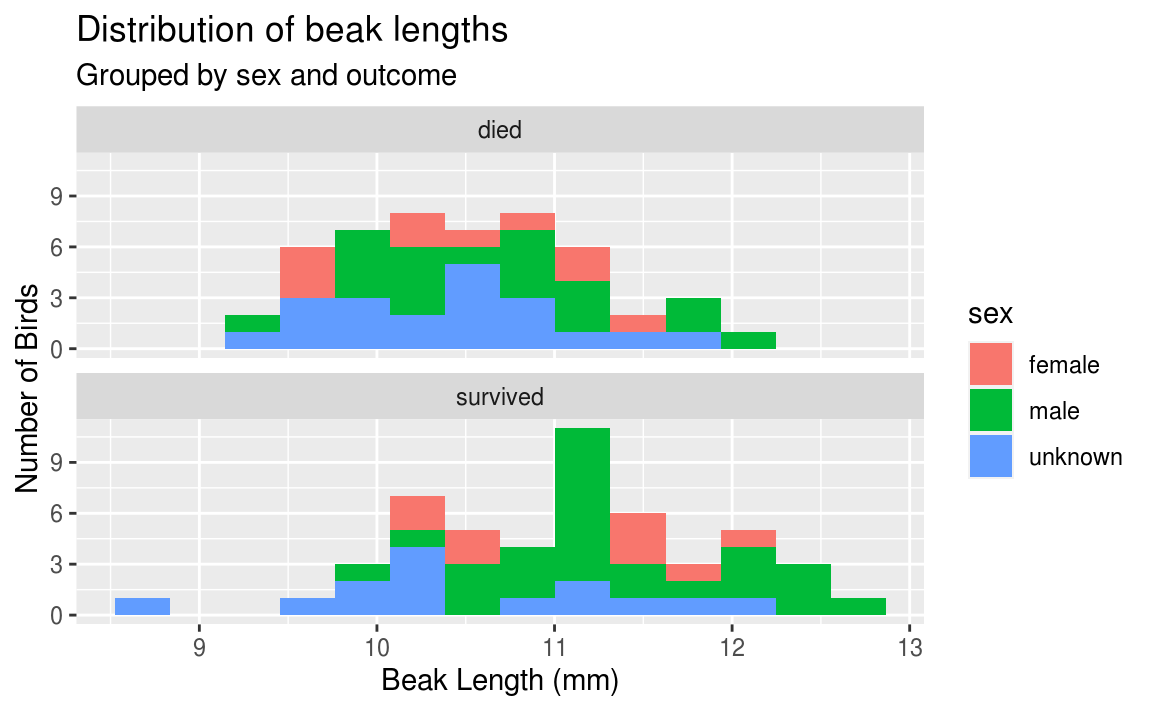
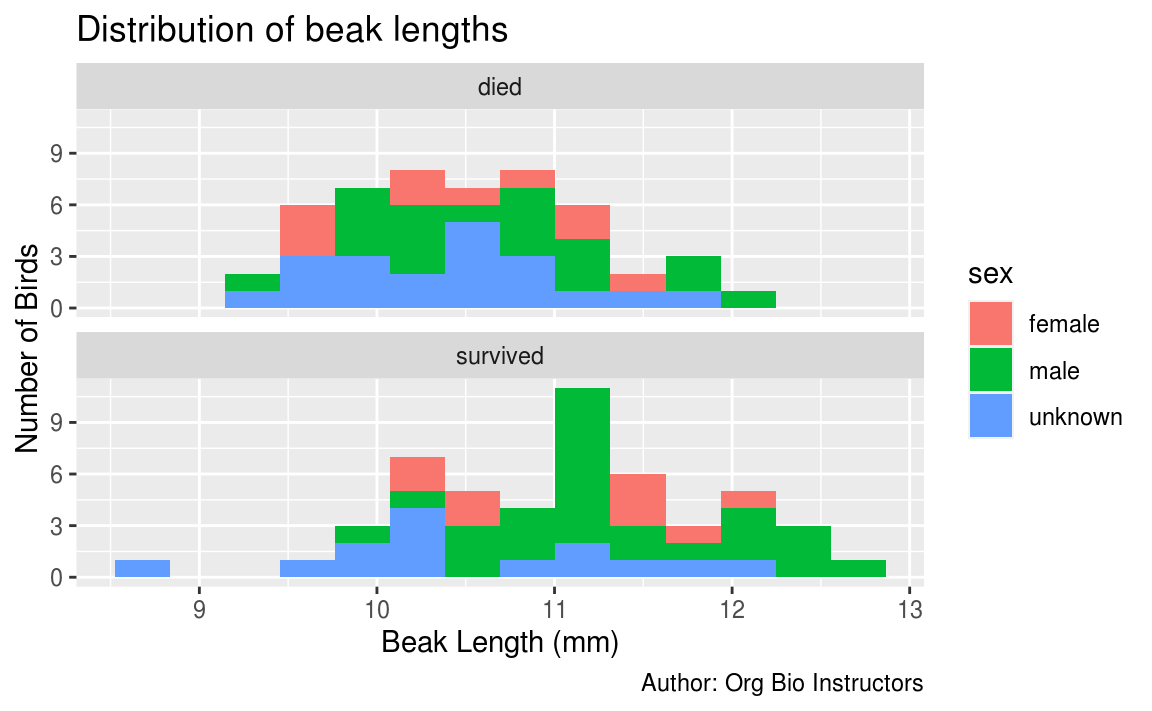
Update the book

diff --git a/finch-analysis.html b/finch-analysis.html
@@ -258,11 +258,11 @@ To look at an object you have just created, print it to the console window by <s
   <span class="fu">facet_wrap</span><span class="op">(</span><span class="op">~</span> <span class="va">outcome</span>, ncol <span class="op">=</span> <span class="fl">1</span><span class="op">)</span> <span class="op">+</span>   <span class="co"># outcome is the grouping variable</span>
   <span class="fu">guides</span><span class="op">(</span>fill <span class="op">=</span> <span class="st">"none"</span><span class="op">)</span> <span class="op">+</span>             <span class="co"># don't show a legend for fill color</span>
   <span class="fu">labs</span><span class="op">(</span>
-    title <span class="op">=</span> <span class="st">"Figure 1."</span>,              <span class="co"># title</span>
-    x <span class="op">=</span> <span class="st">"Beak Length (mm)"</span>,           <span class="co"># x-axis label</span>
-    y <span class="op">=</span> <span class="st">"Number of Birds"</span>             <span class="co"># y-axis label</span>
-  <span class="op">)</span> <span class="op">+</span>
-  <span class="fu">theme</span><span class="op">(</span>plot.title <span class="op">=</span> <span class="fu">element_text</span><span class="op">(</span>size <span class="op">=</span> <span class="fu">rel</span><span class="op">(</span><span class="fl">.8</span><span class="op">)</span><span class="op">)</span><span class="op">)</span>  <span class="co"># make title smaller</span></code></pre></div>
+    title <span class="op">=</span> <span class="st">"Figure 1."</span>,                      <span class="co"># this is the first figure</span>
+    x <span class="op">=</span> <span class="st">"Beak Length (mm)"</span>,                   <span class="co"># human-readable x-axis label</span>
+    y <span class="op">=</span> <span class="st">"Number of Birds"</span>,                    <span class="co"># human-readable y-axis label</span>
+    caption <span class="op">=</span> <span class="st">"Author: Org Bio Instructors"</span>   <span class="co"># so we know who made it</span>
+  <span class="op">)</span></code></pre></div>
 <div class="inline-figure"><img src="finch-analysis_files/figure-html/grouped-histogram-labels-1.png" width="70%" style="display: block; margin: auto;"></div>
 </div>
 <div id="write-a-figure-legend" class="section level3" number="6.6.4">
@@ -334,24 +334,24 @@ Figure 1. <strong>Distribution of beak lengths among medium ground finches (<i>G
 
 <span class="co"># bar chart of mean beak lengths</span>
 <span class="fu">ggplot</span><span class="op">(</span>
-  data <span class="op">=</span> <span class="va">beak_length_grouped_summary</span>,   <span class="co"># dont use the original finches dataset</span>
+  data <span class="op">=</span> <span class="va">beak_length_grouped_summary</span>,   <span class="co"># use summary data, not "finches"</span>
   mapping <span class="op">=</span> <span class="fu">aes</span><span class="op">(</span>x <span class="op">=</span> <span class="va">outcome</span>,            <span class="co"># survival on the x axis</span>
                 y <span class="op">=</span> <span class="va">mean</span>,               <span class="co"># mean beak length on the y axis</span>
                 fill <span class="op">=</span> <span class="va">outcome</span><span class="op">)</span>         <span class="co"># make died/survived different colors</span>
 <span class="op">)</span> <span class="op">+</span>
-  <span class="fu">geom_col</span><span class="op">(</span><span class="op">)</span> <span class="op">+</span>                                 <span class="co"># add columns</span>
-  <span class="fu">geom_errorbar</span><span class="op">(</span>                               <span class="co"># add error bars</span>
-    mapping <span class="op">=</span> <span class="fu">aes</span><span class="op">(</span>ymin <span class="op">=</span> <span class="va">lower_conf_limit</span>,     <span class="co">#   lower 95% confidence limit</span>
-                  ymax <span class="op">=</span> <span class="va">upper_conf_limit</span><span class="op">)</span>,    <span class="co">#   upper 95% confidence limit</span>
-    width <span class="op">=</span> <span class="fl">.3</span>                                 <span class="co">#   width of horizontal bars</span>
+  <span class="fu">geom_col</span><span class="op">(</span><span class="op">)</span> <span class="op">+</span>                                <span class="co"># add columns</span>
+  <span class="fu">geom_errorbar</span><span class="op">(</span>                              <span class="co"># add error bars</span>
+    mapping <span class="op">=</span> <span class="fu">aes</span><span class="op">(</span>ymin <span class="op">=</span> <span class="va">lower_conf_limit</span>,    <span class="co">#   lower 95% confidence limit</span>
+                  ymax <span class="op">=</span> <span class="va">upper_conf_limit</span><span class="op">)</span>,   <span class="co">#   upper 95% confidence limit</span>
+    width <span class="op">=</span> <span class="fl">.3</span>                                <span class="co">#   width of horizontal bars</span>
   <span class="op">)</span> <span class="op">+</span>
-  <span class="fu">guides</span><span class="op">(</span>fill <span class="op">=</span> <span class="st">"none"</span><span class="op">)</span> <span class="op">+</span>                      <span class="co"># don't show fill color legend</span>
+  <span class="fu">guides</span><span class="op">(</span>fill <span class="op">=</span> <span class="st">"none"</span><span class="op">)</span> <span class="op">+</span>                     <span class="co"># don't show fill color legend</span>
   <span class="fu">labs</span><span class="op">(</span>
-    title <span class="op">=</span> <span class="st">"Figure 2."</span>,                       <span class="co"># title</span>
-    x <span class="op">=</span> <span class="st">"Outcome"</span>,                             <span class="co"># x-axis label</span>
-    y <span class="op">=</span> <span class="st">"Beak Length (mm)"</span>                     <span class="co"># y-axis label</span>
-  <span class="op">)</span> <span class="op">+</span>
-  <span class="fu">theme</span><span class="op">(</span>plot.title <span class="op">=</span> <span class="fu">element_text</span><span class="op">(</span>size <span class="op">=</span> <span class="fu">rel</span><span class="op">(</span><span class="fl">.8</span><span class="op">)</span><span class="op">)</span><span class="op">)</span>  <span class="co"># make title smaller</span></code></pre></div>
+    title <span class="op">=</span> <span class="st">"Figure 2."</span>,                      <span class="co"># this is the second figure</span>
+    x <span class="op">=</span> <span class="st">"Outcome"</span>,                            <span class="co"># human-readable x-axis label</span>
+    y <span class="op">=</span> <span class="st">"Beak Length (mm)"</span>,                   <span class="co"># human-readable y-axis label</span>
+    caption <span class="op">=</span> <span class="st">"Author: Org Bio Instructors"</span>   <span class="co"># so we know who made it</span>
+  <span class="op">)</span></code></pre></div>
 <div class="inline-figure"><img src="finch-analysis_files/figure-html/bar-chart-1.png" width="70%" style="display: block; margin: auto;"></div>
 <p>A good figure legend for this figure would be:</p>
 <blockquote class="text-info">

diff --git a/beak-length-script.html b/beak-length-script.html
@@ -101,11 +101,11 @@
   <span class="fu">facet_wrap</span><span class="op">(</span><span class="op">~</span> <span class="va">outcome</span>, ncol <span class="op">=</span> <span class="fl">1</span><span class="op">)</span> <span class="op">+</span>   <span class="co"># outcome is the grouping variable</span>
   <span class="fu">guides</span><span class="op">(</span>fill <span class="op">=</span> <span class="st">"none"</span><span class="op">)</span> <span class="op">+</span>             <span class="co"># don't show a legend for fill color</span>
   <span class="fu">labs</span><span class="op">(</span>
-    title <span class="op">=</span> <span class="st">"Figure 1."</span>,              <span class="co"># title</span>
-    x <span class="op">=</span> <span class="st">"Beak Length (mm)"</span>,           <span class="co"># x-axis label</span>
-    y <span class="op">=</span> <span class="st">"Number of Birds"</span>             <span class="co"># y-axis label</span>
-  <span class="op">)</span> <span class="op">+</span>
-  <span class="fu">theme</span><span class="op">(</span>plot.title <span class="op">=</span> <span class="fu">element_text</span><span class="op">(</span>size <span class="op">=</span> <span class="fu">rel</span><span class="op">(</span><span class="fl">.8</span><span class="op">)</span><span class="op">)</span><span class="op">)</span>  <span class="co"># make title smaller</span>
+    title <span class="op">=</span> <span class="st">"Figure 1."</span>,                <span class="co"># change number if necessary</span>
+    x <span class="op">=</span> <span class="st">"Beak Length (mm)"</span>,             <span class="co"># human-readable x-axis label</span>
+    y <span class="op">=</span> <span class="st">"Number of Birds"</span>,              <span class="co"># human-readable y-axis label</span>
+    caption <span class="op">=</span> <span class="st">"Author: YOUR NAME HERE"</span>  <span class="co"># your name so we know who made it</span>
+  <span class="op">)</span>
 
 <span class="co"># save your most recent plot</span>
 <span class="fu">ggsave</span><span class="op">(</span><span class="st">"beak_length_histogram.png"</span>,   <span class="co"># you choose a name for the file</span>
@@ -133,7 +133,7 @@
 
 <span class="co"># bar chart of mean beak lengths</span>
 <span class="fu">ggplot</span><span class="op">(</span>
-  data <span class="op">=</span> <span class="va">beak_length_grouped_summary</span>,   <span class="co"># dont use the original finches dataset</span>
+  data <span class="op">=</span> <span class="va">beak_length_grouped_summary</span>,   <span class="co"># use summary data, not "finches"</span>
   mapping <span class="op">=</span> <span class="fu">aes</span><span class="op">(</span>x <span class="op">=</span> <span class="va">outcome</span>,            <span class="co"># survival on the x axis</span>
                 y <span class="op">=</span> <span class="va">mean</span>,               <span class="co"># mean beak length on the y axis</span>
                 fill <span class="op">=</span> <span class="va">outcome</span><span class="op">)</span>         <span class="co"># make died/survived different colors</span>
@@ -144,13 +144,13 @@
                   ymax <span class="op">=</span> <span class="va">upper_conf_limit</span><span class="op">)</span>,    <span class="co">#   upper 95% confidence limit</span>
     width <span class="op">=</span> <span class="fl">.3</span>                                 <span class="co">#   width of horizontal bars</span>
   <span class="op">)</span> <span class="op">+</span>
-  <span class="fu">guides</span><span class="op">(</span>fill <span class="op">=</span> <span class="st">"none"</span><span class="op">)</span> <span class="op">+</span>                      <span class="co"># don't show fill color legend</span>
+  <span class="fu">guides</span><span class="op">(</span>fill <span class="op">=</span> <span class="st">"none"</span><span class="op">)</span> <span class="op">+</span>               <span class="co"># don't show fill color legend</span>
   <span class="fu">labs</span><span class="op">(</span>
-    title <span class="op">=</span> <span class="st">"Figure 2."</span>,                       <span class="co"># title</span>
-    x <span class="op">=</span> <span class="st">"Outcome"</span>,                             <span class="co"># x-axis label</span>
-    y <span class="op">=</span> <span class="st">"Beak Length (mm)"</span>                     <span class="co"># y-axis label</span>
-  <span class="op">)</span> <span class="op">+</span>
-  <span class="fu">theme</span><span class="op">(</span>plot.title <span class="op">=</span> <span class="fu">element_text</span><span class="op">(</span>size <span class="op">=</span> <span class="fu">rel</span><span class="op">(</span><span class="fl">.8</span><span class="op">)</span><span class="op">)</span><span class="op">)</span>  <span class="co"># make title smaller</span>
+    title <span class="op">=</span> <span class="st">"Figure 2."</span>,                <span class="co"># change number if necessary</span>
+    x <span class="op">=</span> <span class="st">"Outcome"</span>,                      <span class="co"># human-readable x-axis label</span>
+    y <span class="op">=</span> <span class="st">"Beak Length (mm)"</span>,             <span class="co"># human-readable y-axis label</span>
+    caption <span class="op">=</span> <span class="st">"Author: YOUR NAME HERE"</span>  <span class="co"># your name so we know who made it</span>
+  <span class="op">)</span>
 
 <span class="co"># save the beak length bar chart</span>
 <span class="co"># note that the dimensions are different from the histograms above</span>

diff --git a/intraspecific-variation-assignment.html b/intraspecific-variation-assignment.html
@@ -135,17 +135,16 @@
 <p>If you are feeling saavy, use “find and replace” (the magnifying glass on the Source tab toolbar) to modify the script. Be careful, though! With great power comes great responsibility. It’s easy to accidentally replace something you didn’t mean to. And triple check your spelling before you Replace All. Remember that R is case sensitive and don’t mistake any underscores for spaces.</p>
 <p>To get you moving along, here are some suggestions:</p>
 <ul>
-<li>replace <code>finches</code> with <code>grass</code>
+<li>replace <code>finches</code> with <code>grass</code> throughout</li>
+<li>replace <code>beak_length</code> with <code>plant_height</code> throughout</li>
+<li>replace <code>outcome</code> with <code>site</code> throughout</li>
+<li>for the histogram and bar chart
+<ul>
+<li>change the x- and y-axis labels (in <code>labs()</code>)</li>
+<li>put your name in the caption so we know who made the figure (in <code>labs()</code>)</li>
+<li>change the name of the file you save the histogram as (in <code>ggsave()</code>)</li>
+</ul>
 </li>
-<li>replace <code>beak_length</code> with <code>plant_height</code>
-</li>
-<li>replace <code>outcome</code> with <code>site</code>
-</li>
-<li>replace <code>died</code> with <code>A</code> and replace <code>survived</code> with <code>B</code> (capitalization is important here)</li>
-<li>change the x- and y-axis labels on the histogram</li>
-<li>change the x- and y-axis labels on the bar chart</li>
-<li>change the name of the file you save the histogram as</li>
-<li>change the name of the file you save the bar chart as</li>
 </ul>
 <p>Now save the <code>plant_height.R</code> script. If you see any red x’s pop up on the left side of your script, those indicate potential errors. Hover your mouse over them to see the error message and try to solve the problem before you run the code. Your instructor or a friend will come in handy with solving any errors.</p>
 <p>Finally, run the <code>plant_height.R</code> script, one line at a time, watching for errors and looking closely at any figures you generate. If you get an error or notice a mistake, fix it and start running the code again from the top.</p>

diff --git a/artificial-selection.html b/artificial-selection.html
@@ -180,14 +180,14 @@ Does the number of trichomes on Fast Plants (<i>Brassica rapa</i>) plants vary b
   <span class="fu">facet_wrap</span><span class="op">(</span><span class="op">~</span> <span class="va">outcome</span>, ncol <span class="op">=</span> <span class="fl">1</span><span class="op">)</span> <span class="op">+</span>   <span class="co"># put each outcome in its own panel</span>
   <span class="fu">labs</span><span class="op">(</span>
     title <span class="op">=</span> <span class="st">"Distribution of beak lengths"</span>,
-    subtitle <span class="op">=</span> <span class="st">"Grouped by sex and outcome"</span>,
     x <span class="op">=</span> <span class="st">"Beak Length (mm)"</span>,
-    y <span class="op">=</span> <span class="st">"Number of Birds"</span>
+    y <span class="op">=</span> <span class="st">"Number of Birds"</span>,
+    caption <span class="op">=</span> <span class="st">"Author: Org Bio Instructors"</span>
   <span class="op">)</span></code></pre></div>
 <div class="inline-figure"><img src="artificial-selection_files/figure-html/finch-sex-histogram-1.png" width="70%" style="display: block; margin: auto;"></div>
 <p>For your current assignment, put each generation of plants on its own panel, and set the fill color of the columns by whether the plants were <strong>selected</strong> for breeding or not.</p>
 <p>Remove the line <code>guides(fill = "none") +</code> to show the fill color legend.</p>
-<p>In <em>your</em> figures, do not use subtitles and set your titles to say <code>"Figure 1."</code> and <code>"Figure 2."</code>.</p>
+<p>In <em>your</em> figures, the titles should be <code>"Figure 1."</code> and <code>"Figure 2."</code>.</p>
 <p>For example:</p>
 <div class="inline-figure"><img src="artificial-selection_files/figure-html/fast-plant-histogram-1.png" width="70%" style="display: block; margin: auto;"></div>
 

diff --git a/finch-analysis.md b/finch-analysis.md
@@ -225,11 +225,11 @@ ggplot(
   facet_wrap(~ outcome, ncol = 1) +   # outcome is the grouping variable
   guides(fill = "none") +             # don't show a legend for fill color
   labs(
-    title = "Figure 1.",              # title
-    x = "Beak Length (mm)",           # x-axis label
-    y = "Number of Birds"             # y-axis label
-  ) +
-  theme(plot.title = element_text(size = rel(.8)))  # make title smaller
+    title = "Figure 1.",                      # this is the first figure
+    x = "Beak Length (mm)",                   # human-readable x-axis label
+    y = "Number of Birds",                    # human-readable y-axis label
+    caption = "Author: Org Bio Instructors"   # so we know who made it
+  )
 ```
 
 <img src="finch-analysis_files/figure-html/grouped-histogram-labels-1.png" width="70%" style="display: block; margin: auto;" />
@@ -310,24 +310,24 @@ To plot these means and confidence intervals, you can use a bar chart with the `
 
 # bar chart of mean beak lengths
 ggplot(
-  data = beak_length_grouped_summary,   # dont use the original finches dataset
+  data = beak_length_grouped_summary,   # use summary data, not "finches"
   mapping = aes(x = outcome,            # survival on the x axis
                 y = mean,               # mean beak length on the y axis
                 fill = outcome)         # make died/survived different colors
 ) +
-  geom_col() +                                 # add columns
-  geom_errorbar(                               # add error bars
-    mapping = aes(ymin = lower_conf_limit,     #   lower 95% confidence limit
-                  ymax = upper_conf_limit),    #   upper 95% confidence limit
-    width = .3                                 #   width of horizontal bars
+  geom_col() +                                # add columns
+  geom_errorbar(                              # add error bars
+    mapping = aes(ymin = lower_conf_limit,    #   lower 95% confidence limit
+                  ymax = upper_conf_limit),   #   upper 95% confidence limit
+    width = .3                                #   width of horizontal bars
   ) +
-  guides(fill = "none") +                      # don't show fill color legend
+  guides(fill = "none") +                     # don't show fill color legend
   labs(
-    title = "Figure 2.",                       # title
-    x = "Outcome",                             # x-axis label
-    y = "Beak Length (mm)"                     # y-axis label
-  ) +
-  theme(plot.title = element_text(size = rel(.8)))  # make title smaller
+    title = "Figure 2.",                      # this is the second figure
+    x = "Outcome",                            # human-readable x-axis label
+    y = "Beak Length (mm)",                   # human-readable y-axis label
+    caption = "Author: Org Bio Instructors"   # so we know who made it
+  )
 ```
 
 <img src="finch-analysis_files/figure-html/bar-chart-1.png" width="70%" style="display: block; margin: auto;" />

diff --git a/beak-length-script.md b/beak-length-script.md
@@ -41,11 +41,11 @@ ggplot(
   facet_wrap(~ outcome, ncol = 1) +   # outcome is the grouping variable
   guides(fill = "none") +             # don't show a legend for fill color
   labs(
-    title = "Figure 1.",              # title
-    x = "Beak Length (mm)",           # x-axis label
-    y = "Number of Birds"             # y-axis label
-  ) +
-  theme(plot.title = element_text(size = rel(.8)))  # make title smaller
+    title = "Figure 1.",                # change number if necessary
+    x = "Beak Length (mm)",             # human-readable x-axis label
+    y = "Number of Birds",              # human-readable y-axis label
+    caption = "Author: YOUR NAME HERE"  # your name so we know who made it
+  )
 
 # save your most recent plot
 ggsave("beak_length_histogram.png",   # you choose a name for the file
@@ -73,7 +73,7 @@ beak_length_grouped_summary <-
 
 # bar chart of mean beak lengths
 ggplot(
-  data = beak_length_grouped_summary,   # dont use the original finches dataset
+  data = beak_length_grouped_summary,   # use summary data, not "finches"
   mapping = aes(x = outcome,            # survival on the x axis
                 y = mean,               # mean beak length on the y axis
                 fill = outcome)         # make died/survived different colors
@@ -84,13 +84,13 @@ ggplot(
                   ymax = upper_conf_limit),    #   upper 95% confidence limit
     width = .3                                 #   width of horizontal bars
   ) +
-  guides(fill = "none") +                      # don't show fill color legend
+  guides(fill = "none") +               # don't show fill color legend
   labs(
-    title = "Figure 2.",                       # title
-    x = "Outcome",                             # x-axis label
-    y = "Beak Length (mm)"                     # y-axis label
-  ) +
-  theme(plot.title = element_text(size = rel(.8)))  # make title smaller
+    title = "Figure 2.",                # change number if necessary
+    x = "Outcome",                      # human-readable x-axis label
+    y = "Beak Length (mm)",             # human-readable y-axis label
+    caption = "Author: YOUR NAME HERE"  # your name so we know who made it
+  )
 
 # save the beak length bar chart
 # note that the dimensions are different from the histograms above

diff --git a/intraspecif-var-assign.md b/intraspecif-var-assign.md
@@ -62,14 +62,13 @@ If you are feeling saavy, use "find and replace" (the magnifying glass on the So
 
 To get you moving along, here are some suggestions:
 
-- replace `finches` with `grass`
-- replace `beak_length` with `plant_height`
-- replace `outcome` with `site`
-- replace `died` with `A` and replace `survived` with `B` (capitalization is important here)
-- change the x- and y-axis labels on the histogram
-- change the x- and y-axis labels on the bar chart
-- change the name of the file you save the histogram as
-- change the name of the file you save the bar chart as
+- replace `finches` with `grass` throughout
+- replace `beak_length` with `plant_height` throughout
+- replace `outcome` with `site` throughout
+- for the histogram and bar chart
+    - change the x- and y-axis labels (in `labs()`)
+    - put your name in the caption so we know who made the figure (in `labs()`)
+    - change the name of the file you save the histogram as (in `ggsave()`)
 
 Now save the `plant_height.R` script. If you see any red x's pop up on the left side of your script, those indicate potential errors. Hover your mouse over them to see the error message and try to solve the problem before you run the code. Your instructor or a friend will come in handy with solving any errors.
 

diff --git a/artificial-selection.md b/artificial-selection.md
@@ -103,9 +103,9 @@ ggplot(
   facet_wrap(~ outcome, ncol = 1) +   # put each outcome in its own panel
   labs(
     title = "Distribution of beak lengths",
-    subtitle = "Grouped by sex and outcome",
     x = "Beak Length (mm)",
-    y = "Number of Birds"
+    y = "Number of Birds",
+    caption = "Author: Org Bio Instructors"
   )
 ```
 
@@ -115,7 +115,7 @@ For your current assignment, put each generation of plants on its own panel, and
 
 Remove the line `guides(fill = "none") +` to show the fill color legend.
 
-In *your* figures, do not use subtitles and set your titles to say `"Figure 1."` and `"Figure 2."`.
+In *your* figures, the titles should be `"Figure 1."` and `"Figure 2."`.
 
 For example:
 
